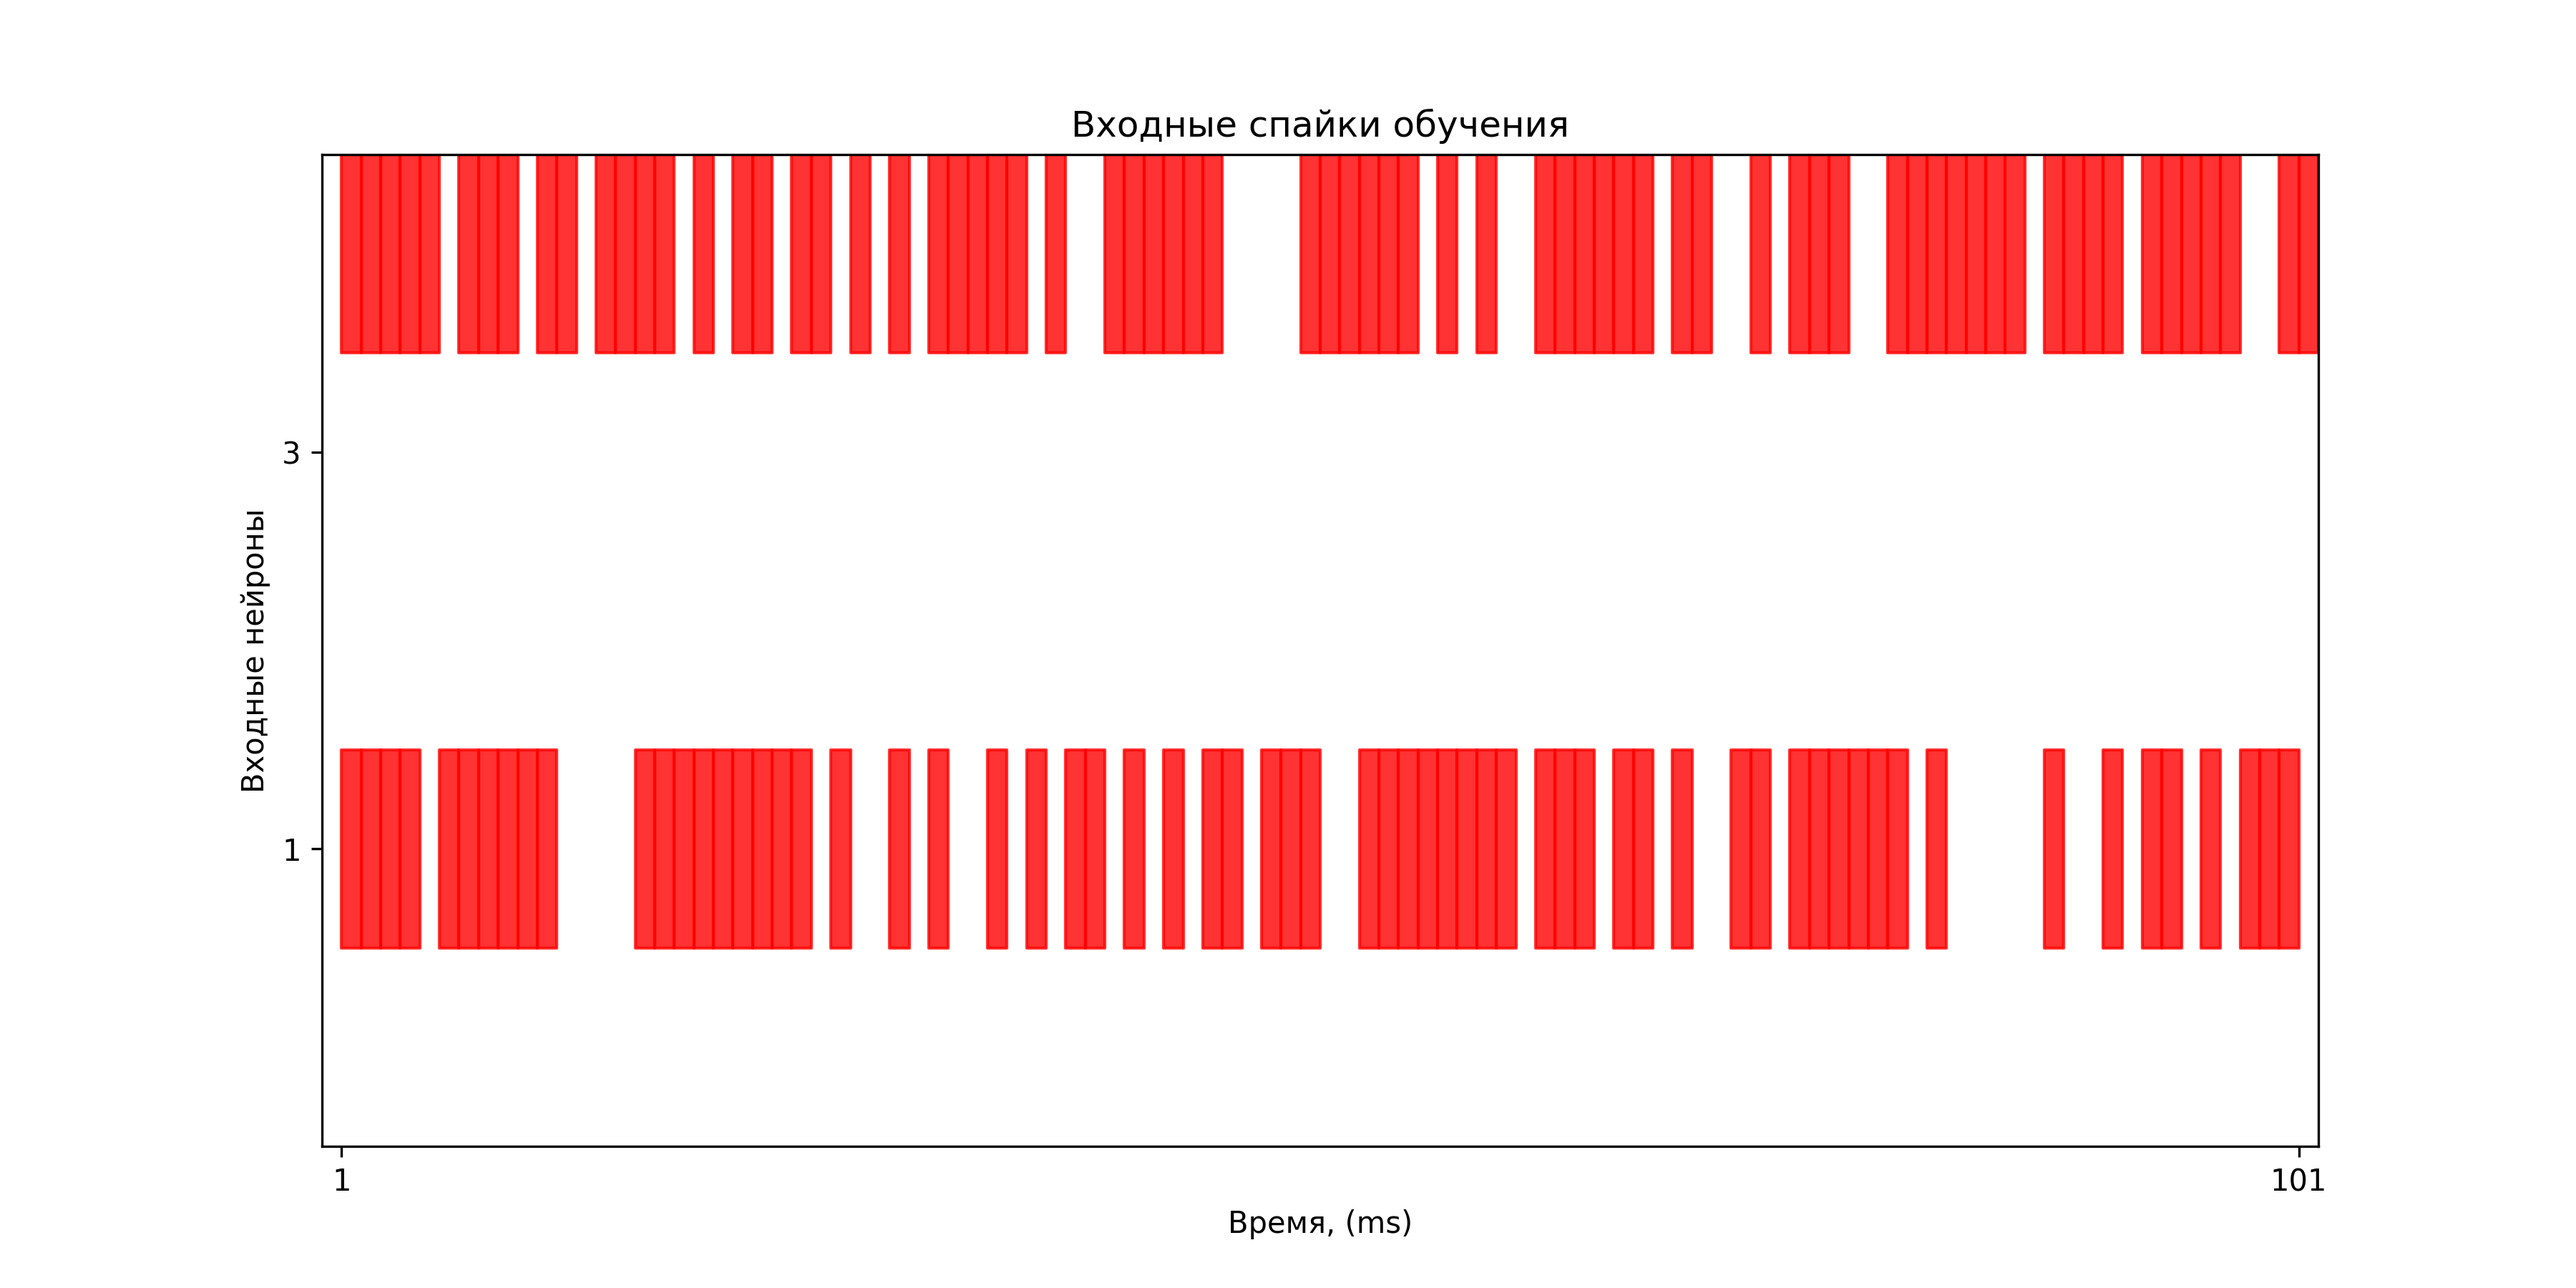
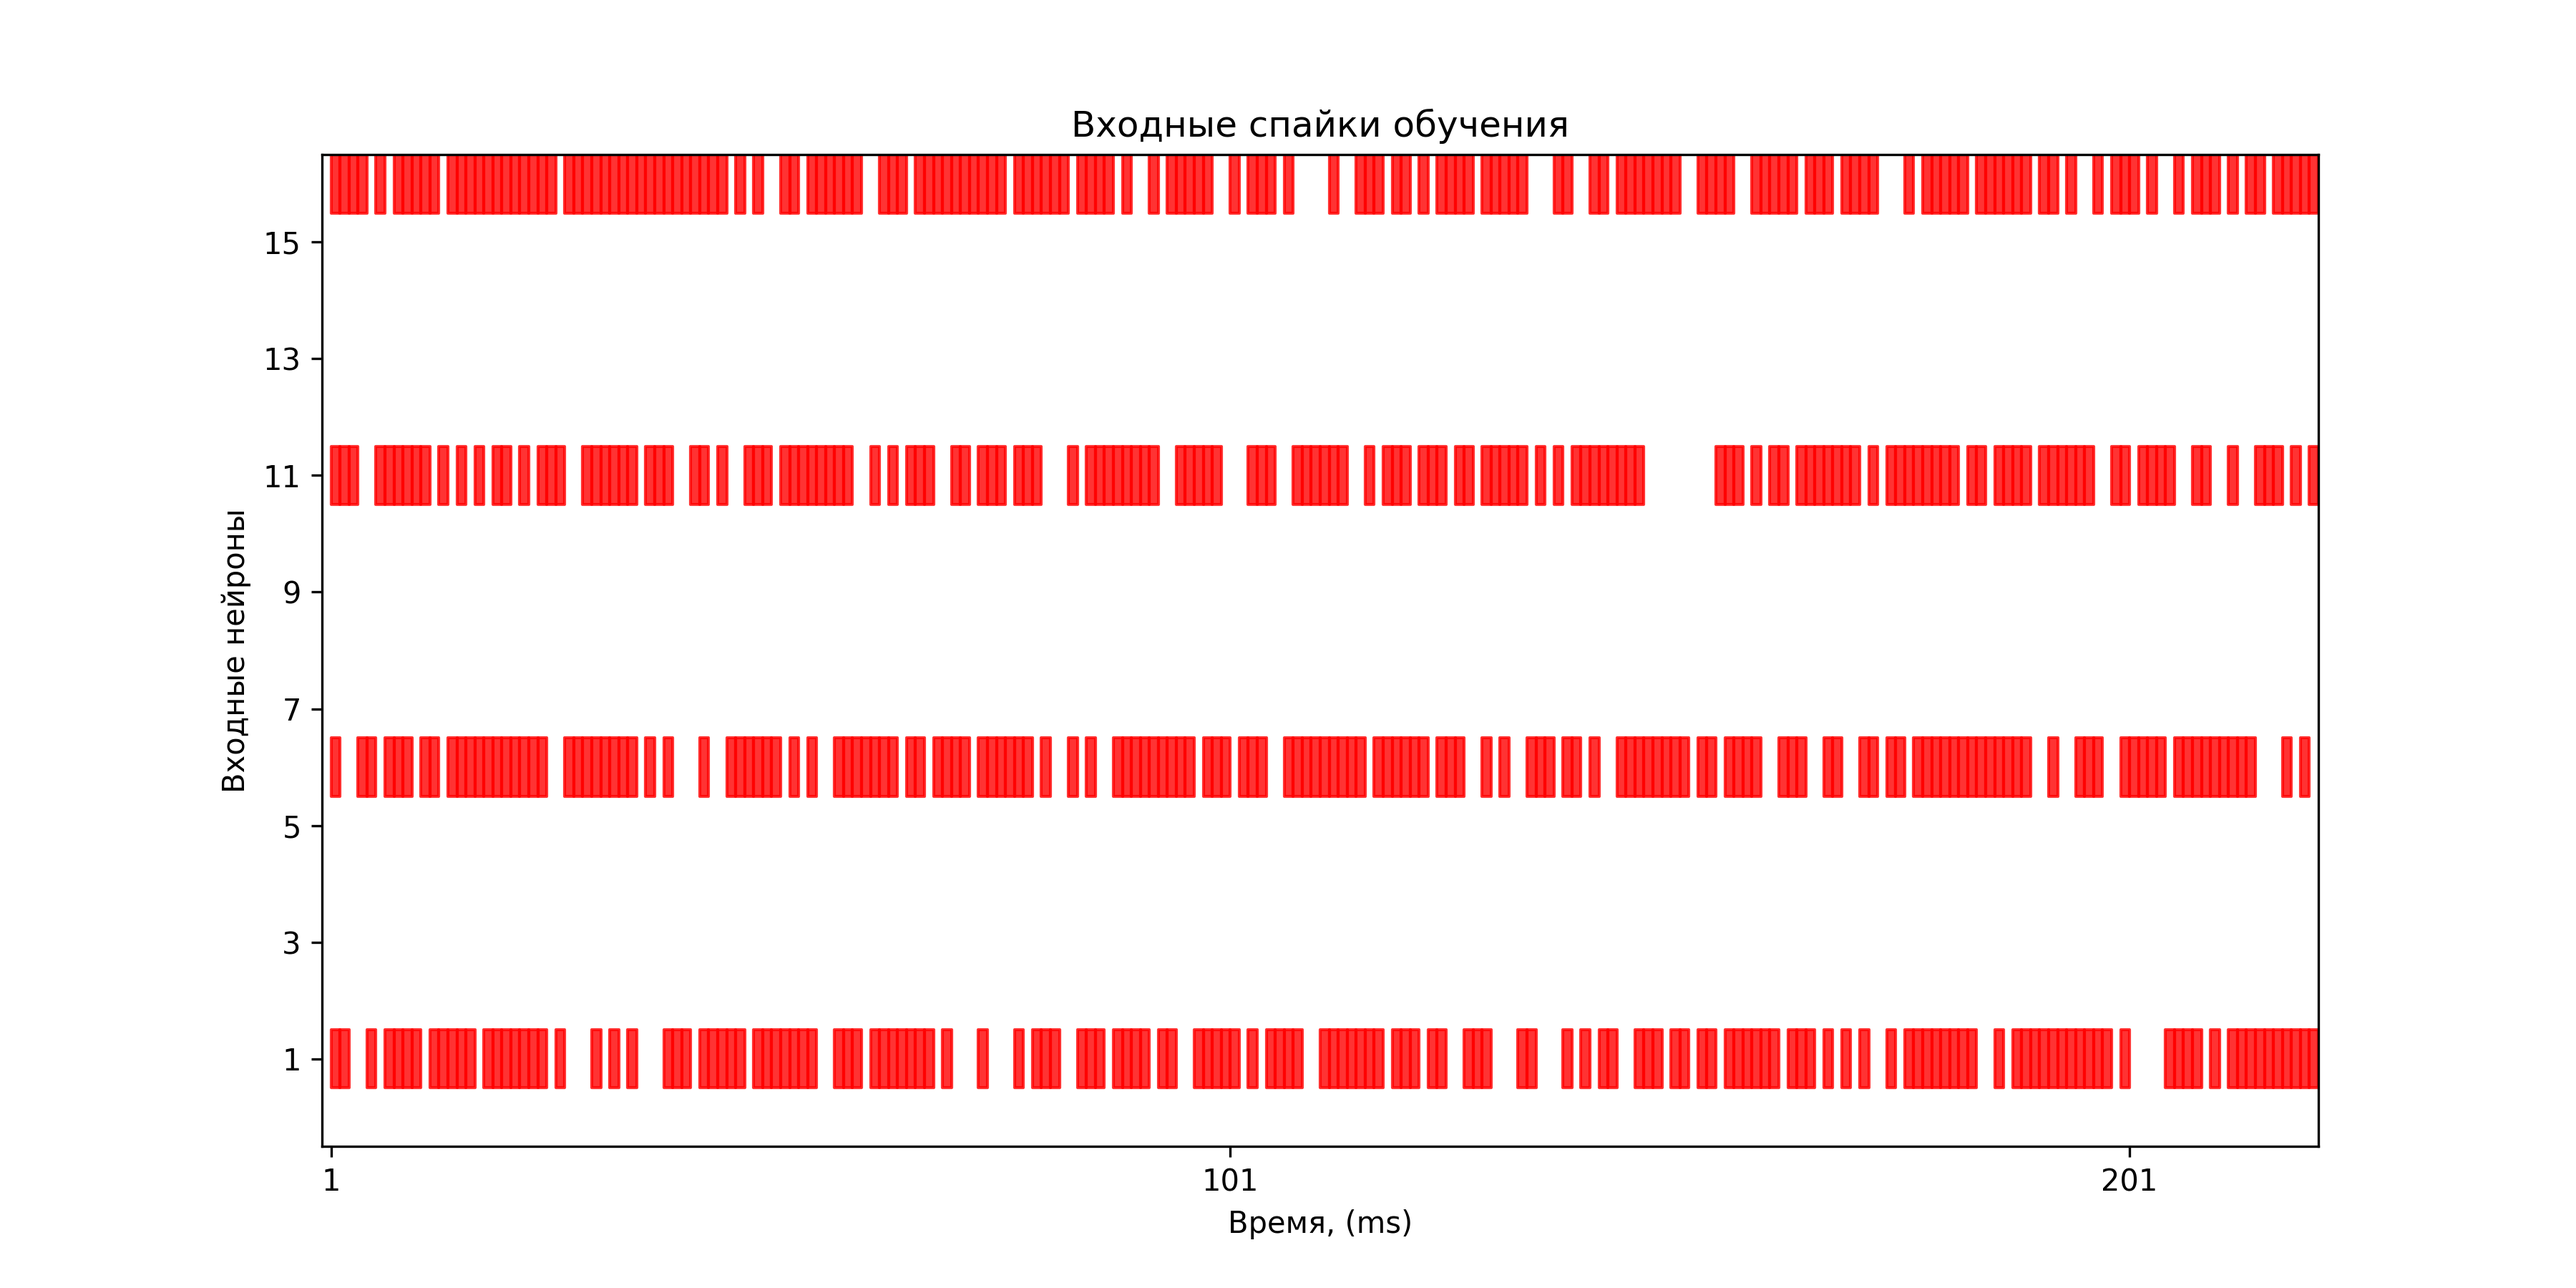
new

diff --git a/neuro_spike/4x4 recognition/learning.py b/neuro_spike/4x4 recognition/learning.py
@@ -16,7 +16,7 @@ W = np.random.uniform(0.1,0.3,size = [num_in_neu,num_out_neu])
 #################################
 # time series
 
-T = 10 #ms
+T = 22 #ms
 dt = 0.1
 time = np.arange(0,T+dt,dt)
 

diff --git a/neuro_spike/4x4 recognition/parameters.py b/neuro_spike/4x4 recognition/parameters.py
@@ -2,7 +2,7 @@
 
 
 # initial learning par
-num_in_neu = 4  # 4x4 size image
+num_in_neu = 16  # 4x4 size image
 epochs = 1
 
 num_out_neu =2
